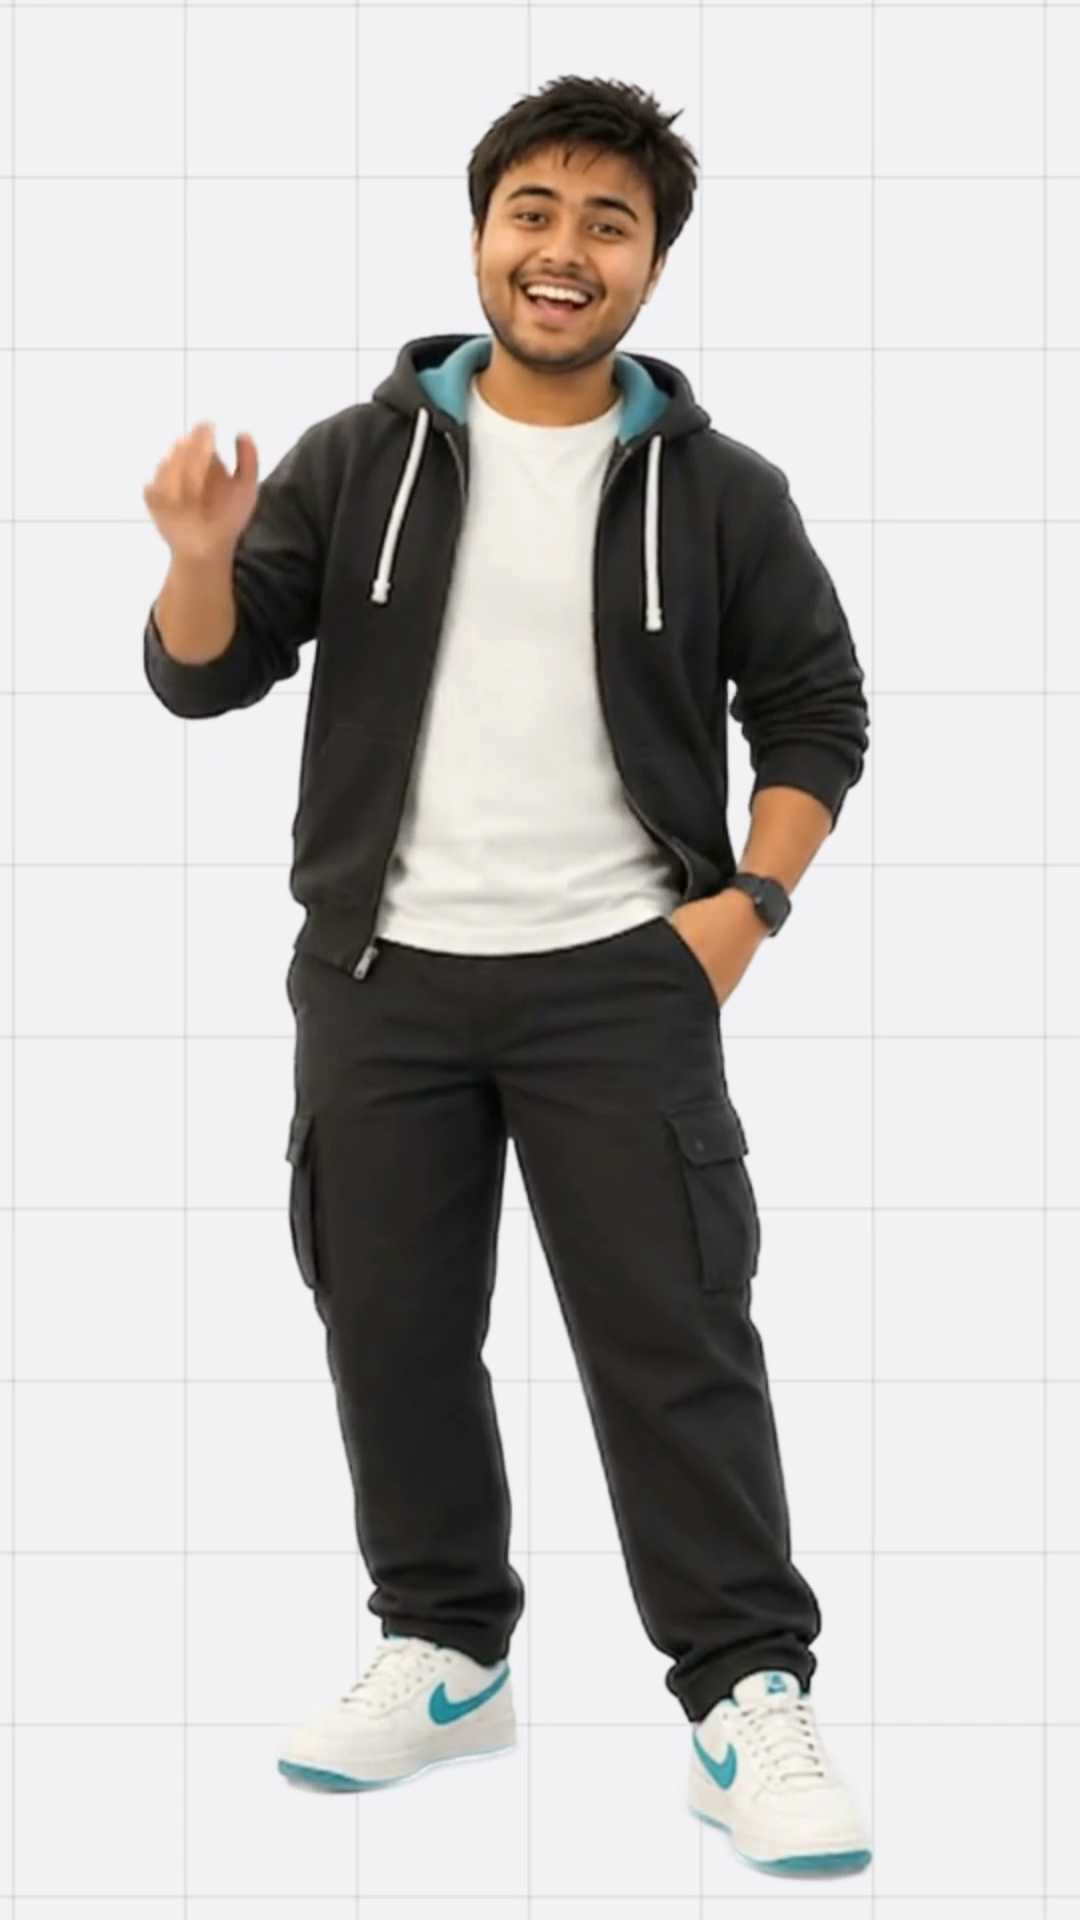
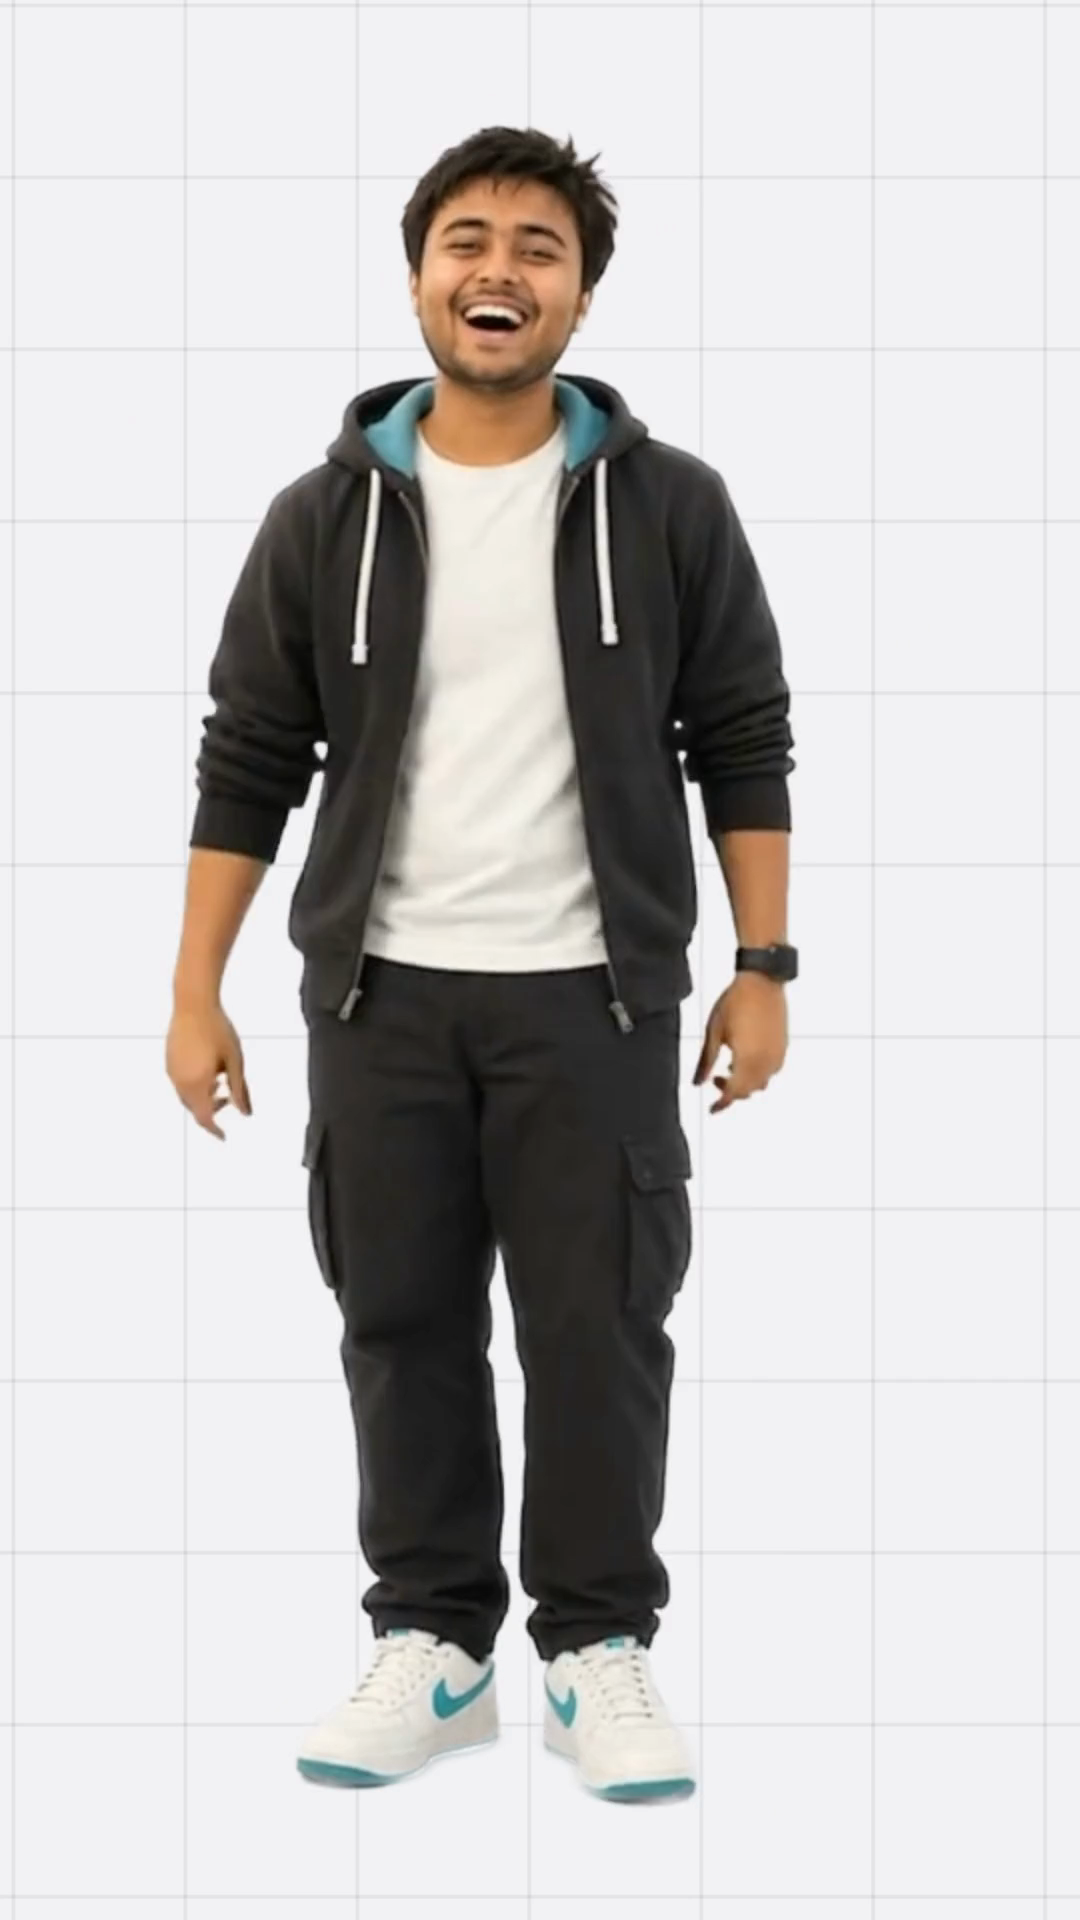
feat: add hero video to landing page, update theme colors, and remove player speech feature

Changed region(s): [[0.1222, 0.0312, 0.825, 1.0], [0.2444, 0.9062, 0.3667, 0.9375]]

diff --git a/src/controllers/portal.js b/src/controllers/portal.js
@@ -12,6 +12,10 @@ export class PortalController {
     this.landingPanel = document.getElementById('view-landing');
     this.selectorPanel = document.getElementById('view-selector');
     this.heroVideo = document.getElementById('hero-video');
+    this.heroContent = document.querySelector('.hero-content');
+    this.gridBackground = document.getElementById('grid-background');
+
+    this.alignGrid = this.alignGrid.bind(this);
 
     this.stage = new ExperienceStage({
       stage: document.getElementById('experience-stage'),
@@ -26,9 +30,25 @@ export class PortalController {
 
   start() {
     this.router.handleRoute(true);
+    this.alignGrid();
+    requestAnimationFrame(() => this.alignGrid());
+    setTimeout(() => this.alignGrid(), 100);
   }
 
   bindEvents() {
+    window.addEventListener('resize', this.alignGrid);
+    if (this.heroVideo) {
+      this.heroVideo.addEventListener('loadedmetadata', this.alignGrid);
+      this.heroVideo.addEventListener('canplay', this.alignGrid);
+      this.heroVideo.addEventListener('playing', this.alignGrid);
+    }
+    if (window.ResizeObserver && this.heroVideo) {
+      const ro = new ResizeObserver(() => this.alignGrid());
+      ro.observe(this.heroVideo);
+      if (this.landingPanel) {
+        ro.observe(this.landingPanel);
+      }
+    }
     // Brand link returns to home smoothly without full page reload
     const brandLink = document.getElementById('brand-link');
     if (brandLink) {
@@ -114,6 +134,10 @@ export class PortalController {
       this.heroVideo.play().catch(() => {});
     }
 
+    this.alignGrid();
+    requestAnimationFrame(() => this.alignGrid());
+    setTimeout(() => this.alignGrid(), 150);
+
     if (updateHistory) {
       this.router.navigateToLanding();
     }
@@ -125,6 +149,16 @@ export class PortalController {
 
     if (this.heroVideo) {
       this.heroVideo.pause();
+    }
+
+    if (this.gridBackground) {
+      this.gridBackground.style.removeProperty('--grid-size');
+      this.gridBackground.style.removeProperty('--grid-offset-x');
+      this.gridBackground.style.removeProperty('--grid-offset-y');
+    }
+
+    if (this.heroContent) {
+      this.heroContent.style.removeProperty('padding-left');
     }
 
     this.landingPanel.classList.add('is-exiting');
@@ -162,5 +196,52 @@ export class PortalController {
   closeExperience() {
     this.stage.close();
     this.showSelector(true);
+  }
+
+  alignGrid() {
+    if (!this.heroVideo || !this.gridBackground) return;
+    if (this.landingPanel && !this.landingPanel.classList.contains('is-active')) return;
+
+    const rect = this.heroVideo.getBoundingClientRect();
+    if (rect.width === 0 || rect.height === 0) return;
+
+    // Video native coordinates: 1080 x 1920
+    // Grid spacing: exactly 172px
+    // First vertical grid line: x = 13px
+    // First horizontal grid line: y = 5px
+    const scale = rect.width / 1080;
+    const gridSize = 172 * scale;
+    const firstLineX = rect.left + 13 * scale;
+    const firstLineY = rect.top + 5 * scale;
+
+    let offsetX = firstLineX % gridSize;
+    let offsetY = firstLineY % gridSize;
+    if (offsetX < 0) offsetX += gridSize;
+    if (offsetY < 0) offsetY += gridSize;
+
+    this.gridBackground.style.setProperty('--grid-size', `${gridSize.toFixed(3)}px`);
+    this.gridBackground.style.setProperty('--grid-offset-x', `${offsetX.toFixed(3)}px`);
+    this.gridBackground.style.setProperty('--grid-offset-y', `${offsetY.toFixed(3)}px`);
+
+    // Lock hero text flush to the adjacent vertical grid line for architectural symmetry
+    if (this.heroContent && window.innerWidth > 900) {
+      const container = document.querySelector('.site-container');
+      const baseLeft = container
+        ? container.getBoundingClientRect().left + parseFloat(window.getComputedStyle(container).paddingLeft || 0)
+        : 48;
+
+      const currentPos = baseLeft + 39.5;
+      const lineIndex = Math.round((currentPos - offsetX) / gridSize);
+      let targetLine = offsetX + lineIndex * gridSize;
+      let snapPadding = targetLine - baseLeft;
+      if (snapPadding < 20) {
+        targetLine += gridSize;
+        snapPadding = targetLine - baseLeft;
+      }
+
+      this.heroContent.style.paddingLeft = `${snapPadding.toFixed(2)}px`;
+    } else if (this.heroContent) {
+      this.heroContent.style.removeProperty('padding-left');
+    }
   }
 }

diff --git a/src/styles/index.css b/src/styles/index.css
@@ -16,7 +16,8 @@
   height: 100vh;
   pointer-events: none;
   z-index: 1;
-  background-size: var(--grid-size) var(--grid-size);
+  background-size: var(--grid-size, 48px) var(--grid-size, 48px);
+  background-position: var(--grid-offset-x, 0px) var(--grid-offset-y, 0px);
   background-image: 
     linear-gradient(to right, var(--grid-color) 1px, transparent 1px),
     linear-gradient(to bottom, var(--grid-color) 1px, transparent 1px);
@@ -97,56 +98,44 @@ body.mode-selector .grid-background {
 .hero-layout {
   display: flex;
   align-items: center;
-  justify-content: center;
+  justify-content: space-between;
   width: 100%;
-  max-width: 1180px;
-  margin: 0 auto;
-  gap: 52px;
+  height: 100%;
+  gap: 48px;
 }
 
 .hero-content {
-  flex: 1 1 540px;
-  max-width: 620px;
-  z-index: 3;
+  flex: 1 1 58%;
+  max-width: 820px;
+  padding-left: var(--hero-content-padding-left, 39.5px);
+  z-index: 2;
 }
 
 .hero-visual {
   flex: 0 0 auto;
   display: flex;
   align-items: center;
-  justify-content: center;
+  justify-content: flex-end;
   height: 100%;
-  max-height: 75vh;
+  max-height: 82vh;
   position: relative;
-  z-index: 3;
-}
-
-/* Soft ambient backing that gently fades out background grid behind the video */
-.hero-visual::before {
-  content: '';
-  position: absolute;
-  inset: -40px -60px;
-  background: radial-gradient(ellipse at center, #f2f2f4 50%, rgba(242, 242, 244, 0.8) 70%, transparent 100%);
-  z-index: 1;
-  pointer-events: none;
+  z-index: 2;
+  margin-right: 56px;
 }
 
 .hero-video {
-  height: 68vh;
-  max-height: 68vh;
+  height: 76vh;
+  max-height: 76vh;
   width: auto;
-  max-width: 390px;
+  max-width: 440px;
   aspect-ratio: 9 / 16;
   object-fit: contain;
   display: block;
-  position: relative;
-  z-index: 2;
-  mask-image: linear-gradient(to right, transparent 0%, black 28px, black calc(100% - 28px), transparent 100%),
-              linear-gradient(to bottom, transparent 0%, black 28px, black calc(100% - 28px), transparent 100%);
-  mask-composite: intersect;
-  -webkit-mask-image: linear-gradient(to right, transparent 0%, black 28px, black calc(100% - 28px), transparent 100%),
-                      linear-gradient(to bottom, transparent 0%, black 28px, black calc(100% - 28px), transparent 100%);
-  -webkit-mask-composite: source-in;
+  background-color: var(--color-bg);
+  border: none;
+  outline: none;
+  box-shadow: none;
+  filter: brightness(var(--video-brightness, 0.975));
 }
 
 /* Selector View */
@@ -223,6 +212,29 @@ body.mode-selector .grid-background {
 
   .site-header {
     margin-bottom: 24px;
+  }
+
+  .hero-layout {
+    flex-direction: column-reverse;
+    justify-content: center;
+    gap: 20px;
+  }
+
+  .hero-content {
+    padding-left: 0;
+    max-width: 100%;
+  }
+
+  .hero-visual {
+    margin-right: 0;
+    max-height: 40vh;
+    justify-content: center;
+    width: 100%;
+  }
+
+  .hero-video {
+    height: 36vh;
+    max-height: 36vh;
   }
 
   .hero-headline {

diff --git a/src/styles/typography.css b/src/styles/typography.css
@@ -27,7 +27,7 @@
   color: var(--color-text-primary);
   text-transform: uppercase;
   margin-bottom: 28px;
-  margin-left: -0.025em; /* Optically aligns the stem of F with container boundary */
+  margin-left: -0.07em; /* Optically aligns stem of F with button and subheading */
 }
 
 .headline-line {
@@ -42,7 +42,7 @@
   color: var(--color-text-muted);
   text-transform: uppercase;
   margin-bottom: 36px;
-  padding-left: 2px; /* Optical symmetry so AI is aligned flush with headline & button */
+  padding-left: 0; /* Aligns flush with button border */
 }
 
 .selector-index-label {

diff --git a/src/styles/variables.css b/src/styles/variables.css
@@ -23,8 +23,13 @@
 
   /* Grid System Metrics */
   --grid-size: 48px;
-  --grid-color: rgba(0, 0, 0, 0.055);
+  --grid-offset-x: 0px;
+  --grid-offset-y: 0px;
+  --grid-color: rgba(0, 0, 0, 0.065);
   --grid-color-active: rgba(0, 0, 0, 0.08);
+
+  /* Video Color Calibration */
+  --video-brightness: 0.99;
 
   /* Typography Stacks */
   --font-headline: "Space Grotesk", -apple-system, BlinkMacSystemFont, "Segoe UI", Roboto, sans-serif;
